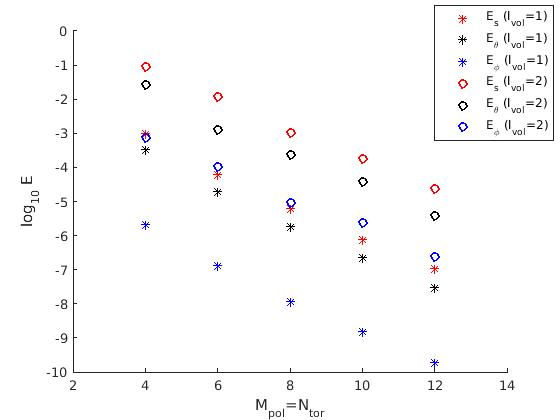
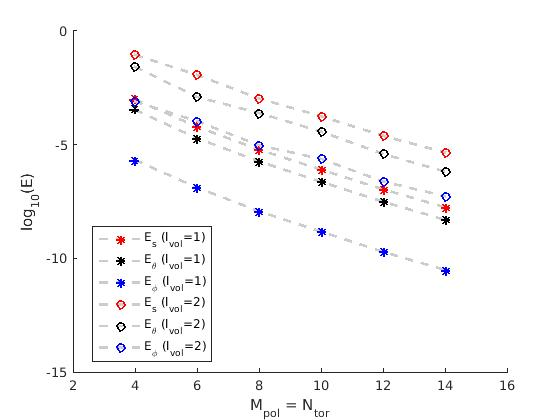
Updated files in vacuum self-verifcation folder

diff --git a/InputFiles/Verification/vacuum/self/MNscan.m b/InputFiles/Verification/vacuum/self/MNscan.m
@@ -1,0 +1,31 @@
+MN    = [4 6 8 10 12 14];
+
+files = {'vacuum.M04N04L6.sp.h5' 'vacuum.M06N06L6.sp.h5' 'vacuum.M08N08L6.sp.h5' 'vacuum.M10N10L6.sp.h5' 'vacuum.M12N12L8.sp.h5' 'vacuum.M14N14L8.sp.h5'};
+
+mn    = length(MN);
+
+for i=1:mn
+ i
+
+ fname     = files{i};
+ fdata     = read_spec_field(fname);
+
+ Berr1s(i) = fdata.beltramierror(1,1);
+ Berr1t(i) = fdata.beltramierror(1,2);
+ Berr1z(i) = fdata.beltramierror(1,3);
+
+ Berr2s(i) = fdata.beltramierror(2,1);
+ Berr2t(i) = fdata.beltramierror(2,2);
+ Berr2z(i) = fdata.beltramierror(2,3);
+end
+
+figure
+hold on
+
+plot(MN,log10(Berr1s),'r*')
+plot(MN,log10(Berr1t),'k*')
+plot(MN,log10(Berr1z),'b*')
+plot(MN,log10(Berr2s),'ro')
+plot(MN,log10(Berr2t),'ko')
+plot(MN,log10(Berr2z),'bo')
+
